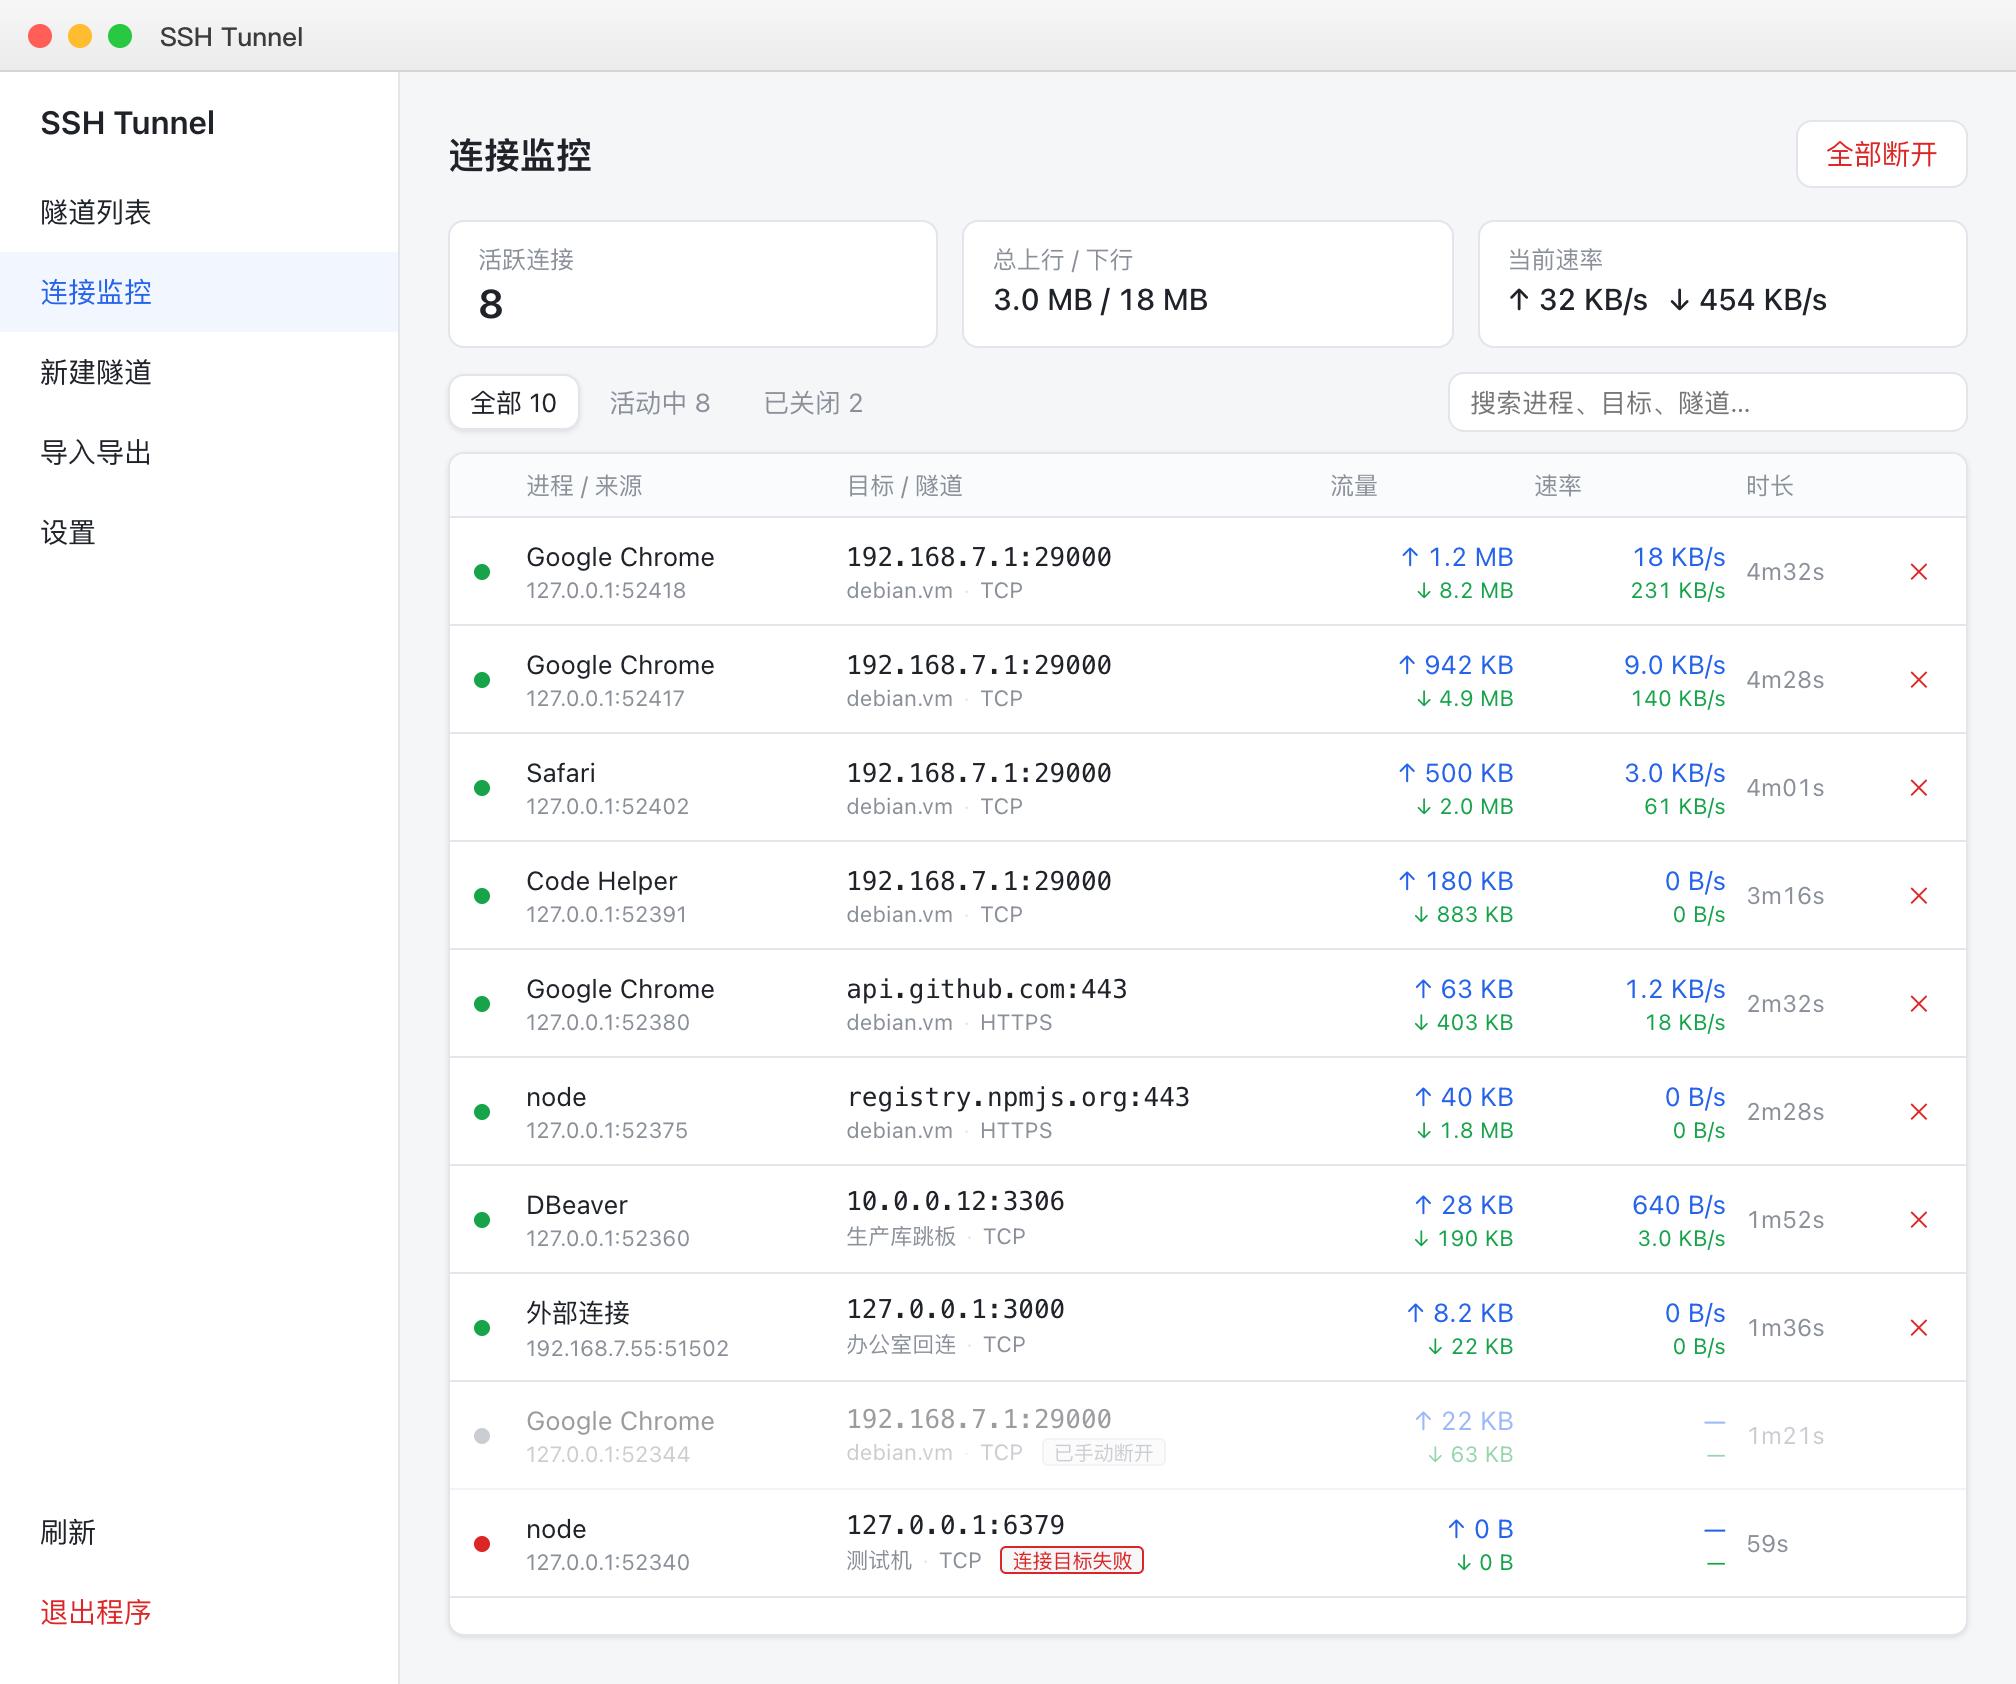
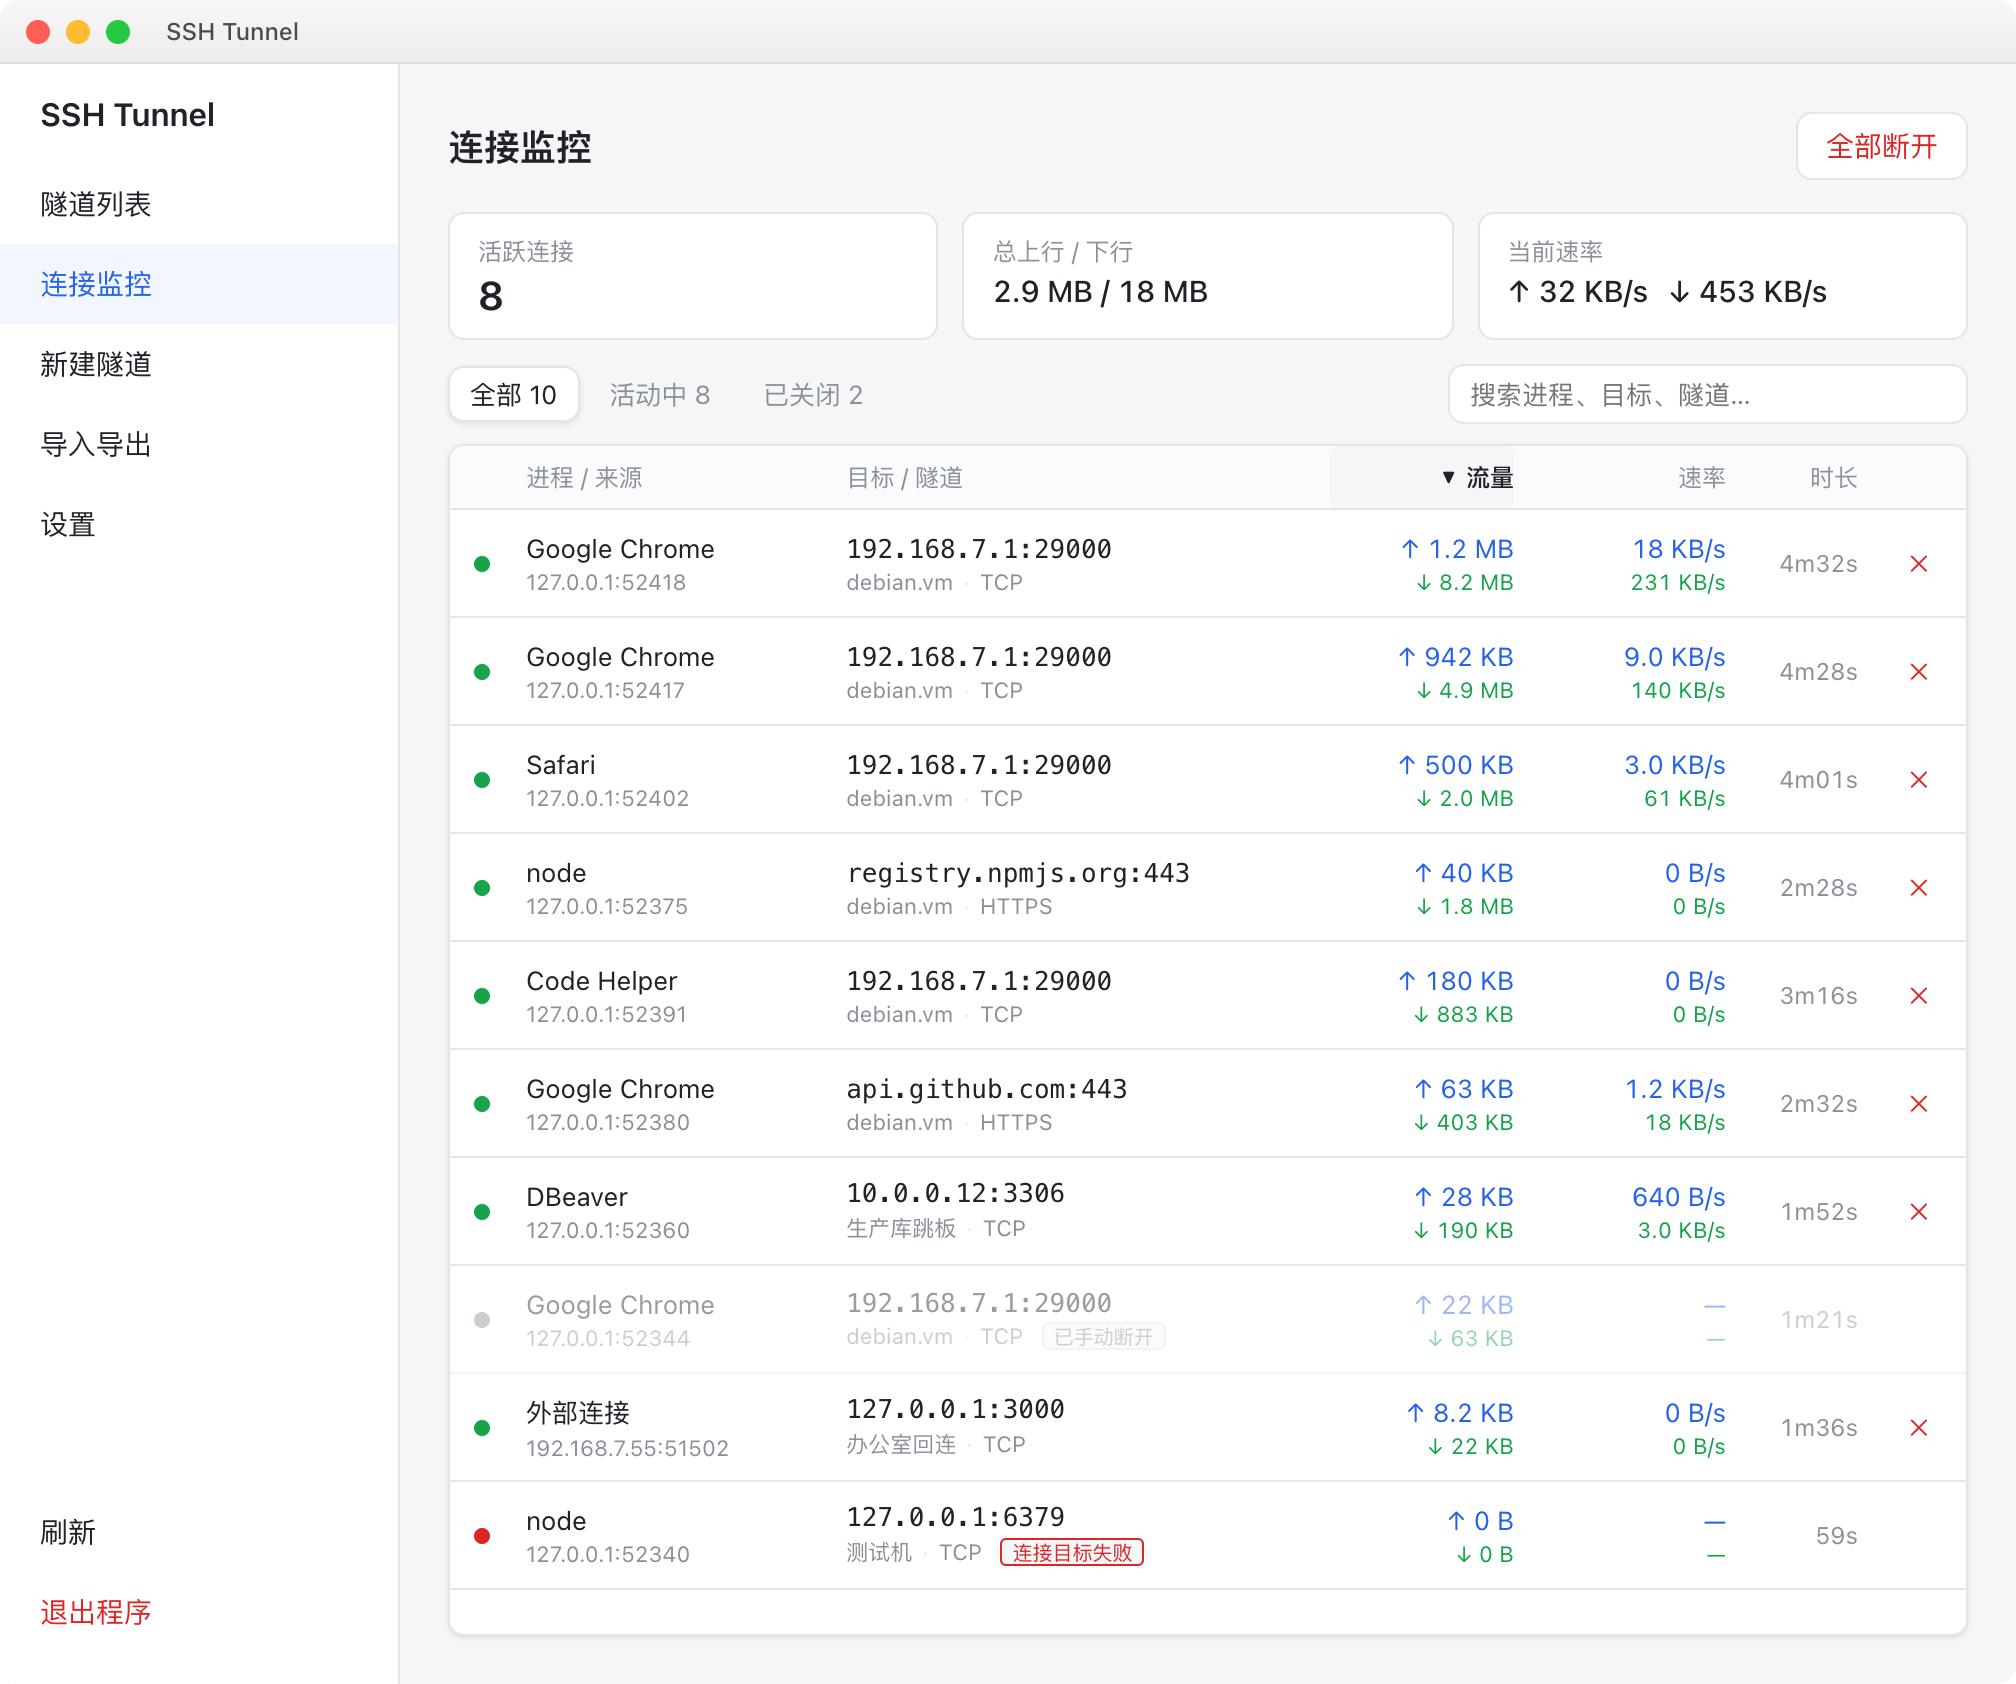
docs: 更新 README 与连接监控截图
- 连接监控新增「列表可排序」条目，写清五列都能排、数值列先降序文本列先升序、
  第三次点击取消、刷新后保持当前排序、流量与速率按上下行合计比较；
- 界面预览补上排序说明，并重拍 images/连接监控界面.png：用真实窗口布局渲染
  （1008×842 @2x，与旧图同比例），截图时按流量降序，让排序箭头一并可见；
- 更新日志 v0.0.2 补三条：连接监控的排序能力、表头与数值列错位 + 滚动条逐列偏移 +
  速率按实际间隔换算、Windows 产物补齐 NSIS 安装包；
- `-D` 的描述从「并复用 keep-alive 连接」改成「支持 keep-alive 长连接」——
  复用只发生在客户端到代理这一段，上游每条请求仍是新建连接，原文容易读成上游也复用。

其余四张截图这轮没有对应改动，未重拍。

diff --git a/README.md b/README.md
@@ -23,7 +23,7 @@
 - **三种端口转发模式**
   - `-L` 本地转发（Local Forward）
   - `-R` 远程转发（Remote Forward）
-  - `-D` 动态代理（Dynamic Forward）—— 同一监听端口同时兼容 SOCKS5 与 HTTP 代理，按首字节自动识别协议；HTTP 模式支持 `CONNECT` 隧道（HTTPS / 任意 TCP）与普通请求转发，并复用 keep-alive 连接
+  - `-D` 动态代理（Dynamic Forward）—— 同一监听端口同时兼容 SOCKS5 与 HTTP 代理，按首字节自动识别协议；HTTP 模式支持 `CONNECT` 隧道（HTTPS / 任意 TCP）与普通请求转发，支持 keep-alive 长连接
 - **代理中转** — 到 SSH 服务器的连接可经由 HTTP / HTTPS / SOCKS5 代理建立，适用于处于内网或需跳板访问 SSH 的场景；支持代理认证，连接测试同样走代理
 - **自动重连** — 断线后自动重试，可配置退避策略（初始 / 最大退避间隔）
 - **连接测试** — 保存前先测试 SSH 连通性，不实际启动转发
@@ -34,6 +34,7 @@
 把「现在有哪些连接、连到哪、跑了多少流量」直接摆到界面上，不用再开 `lsof` 或抓包。
 
 - **实时连接列表** — 每条连接显示进程名与 PID、来源地址、目标地址、所属隧道、协议（TCP / SOCKS5 / HTTP / HTTPS）
+- **列表可排序** — 进程 / 来源、目标 / 隧道、流量、速率、时长五列都能点表头排序，再点切换方向、第三次取消回到默认（数值列先降序、文本列先升序）；每秒刷新数据后仍按当前列动态重排，流量与速率按上下行合计比较
 - **流量与速率** — 累计上下行字节数 + 1 秒粒度的实时速率，合计值在顶部汇总
 - **进程反查** — 自动识别发起连接的本机进程（浏览器、IDE、数据库客户端…）
   - macOS：`libproc` 遍历进程 fd
@@ -85,7 +86,7 @@
 
 ### 连接监控
 
-实时展示所有进行中的连接：进程、来源、目标、流量与速率。绿色圆点为活动中，灰色为刚结束（保留 5 秒），红色表示连接目标失败。
+实时展示所有进行中的连接：进程、来源、目标、流量与速率。点击任意列表头即可按该列排序，刷新数据后排序保持不变（图中按流量降序）。绿色圆点为活动中，灰色为刚结束（保留 5 秒），红色表示连接目标失败。
 
 ![连接监控界面](images/连接监控界面.png)
 
@@ -246,7 +247,7 @@ ssh-tunnel/
 
 **新增**
 
-- **连接监控** — 实时查看所有进行中的连接、访问目标、流量与速率，支持单条 / 全部断开
+- **连接监控** — 实时查看所有进行中的连接、访问目标、流量与速率，支持单条 / 全部断开；列表五列均可点表头排序，刷新后保持当前排序
 - **进程反查** — 自动识别发起连接的本机进程（macOS `libproc` / Linux `procfs` / Windows `iphlpapi`）
 - **三平台 CI** — 每次提交自动在 macOS / Linux / Windows 上跑测试
 
@@ -256,8 +257,10 @@ ssh-tunnel/
 - **连接稳定性** — SSH 握手无法中断、keepalive 超时不生效、`stopCh` 数据竞争
 - **配置安全** — 写盘改为原子替换并可从损坏中恢复；修正 IPv6 导出括号与含空格密钥路径
 - **界面** — macOS 上 `confirm()` / `alert()` 被 WebView 静默吞掉（表现为「删除点了没反应」）、复制按钮失效、编辑页覆盖旧隧道、`-D` 行删除按钮错位；删除隧道补上二次确认
+- **连接监控** — 表头与数值列错位、经典滚动条下逐列偏移；速率改为按实际采样间隔换算（原先把每次采样的增量直接当每秒速率，采样延迟时会虚高）
 - **托盘与退出** — 托盘菜单重建时的 goroutine 泄漏、Dock 切换的线程问题、主动退出被「最小化到托盘」拦截
 - **细节** — 已关闭连接及时回收、重开监控页时速率虚高、`-D` 探测连接被误标为 TCP
+- **发布** — Windows 产物补上 NSIS 安装包（此前因构建机缺少 `makensis` 被静默跳过，只发布免安装 exe）
 
 **性能**
 
